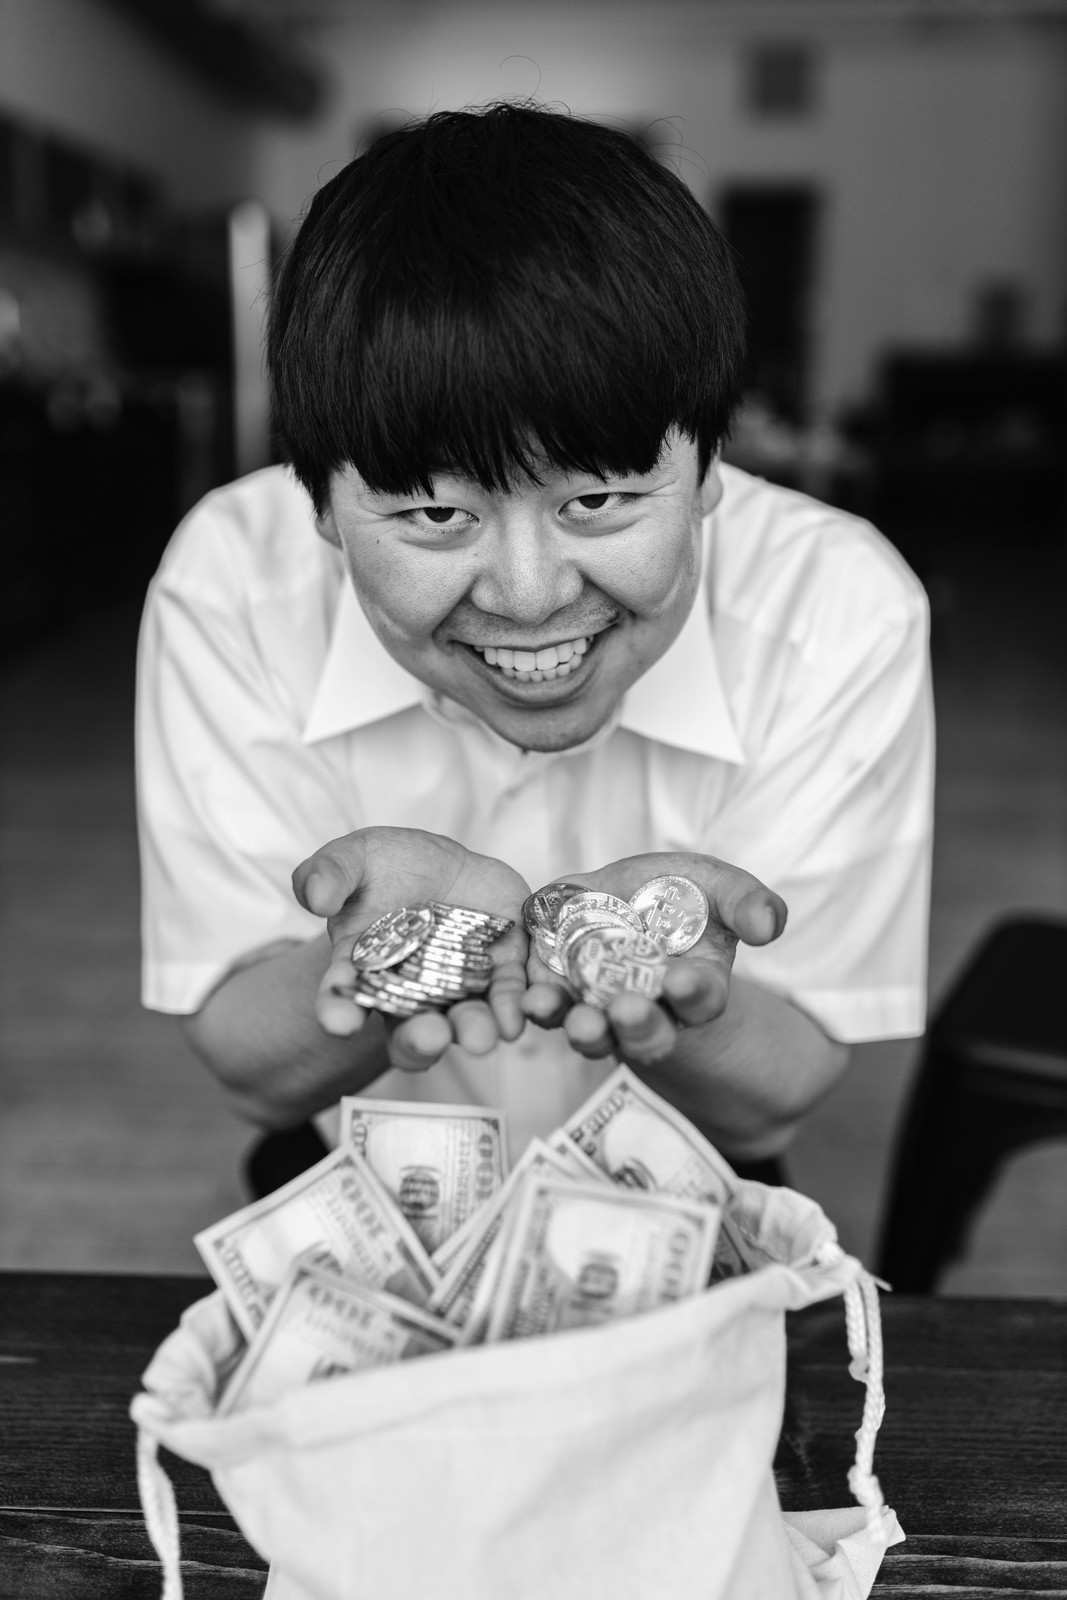
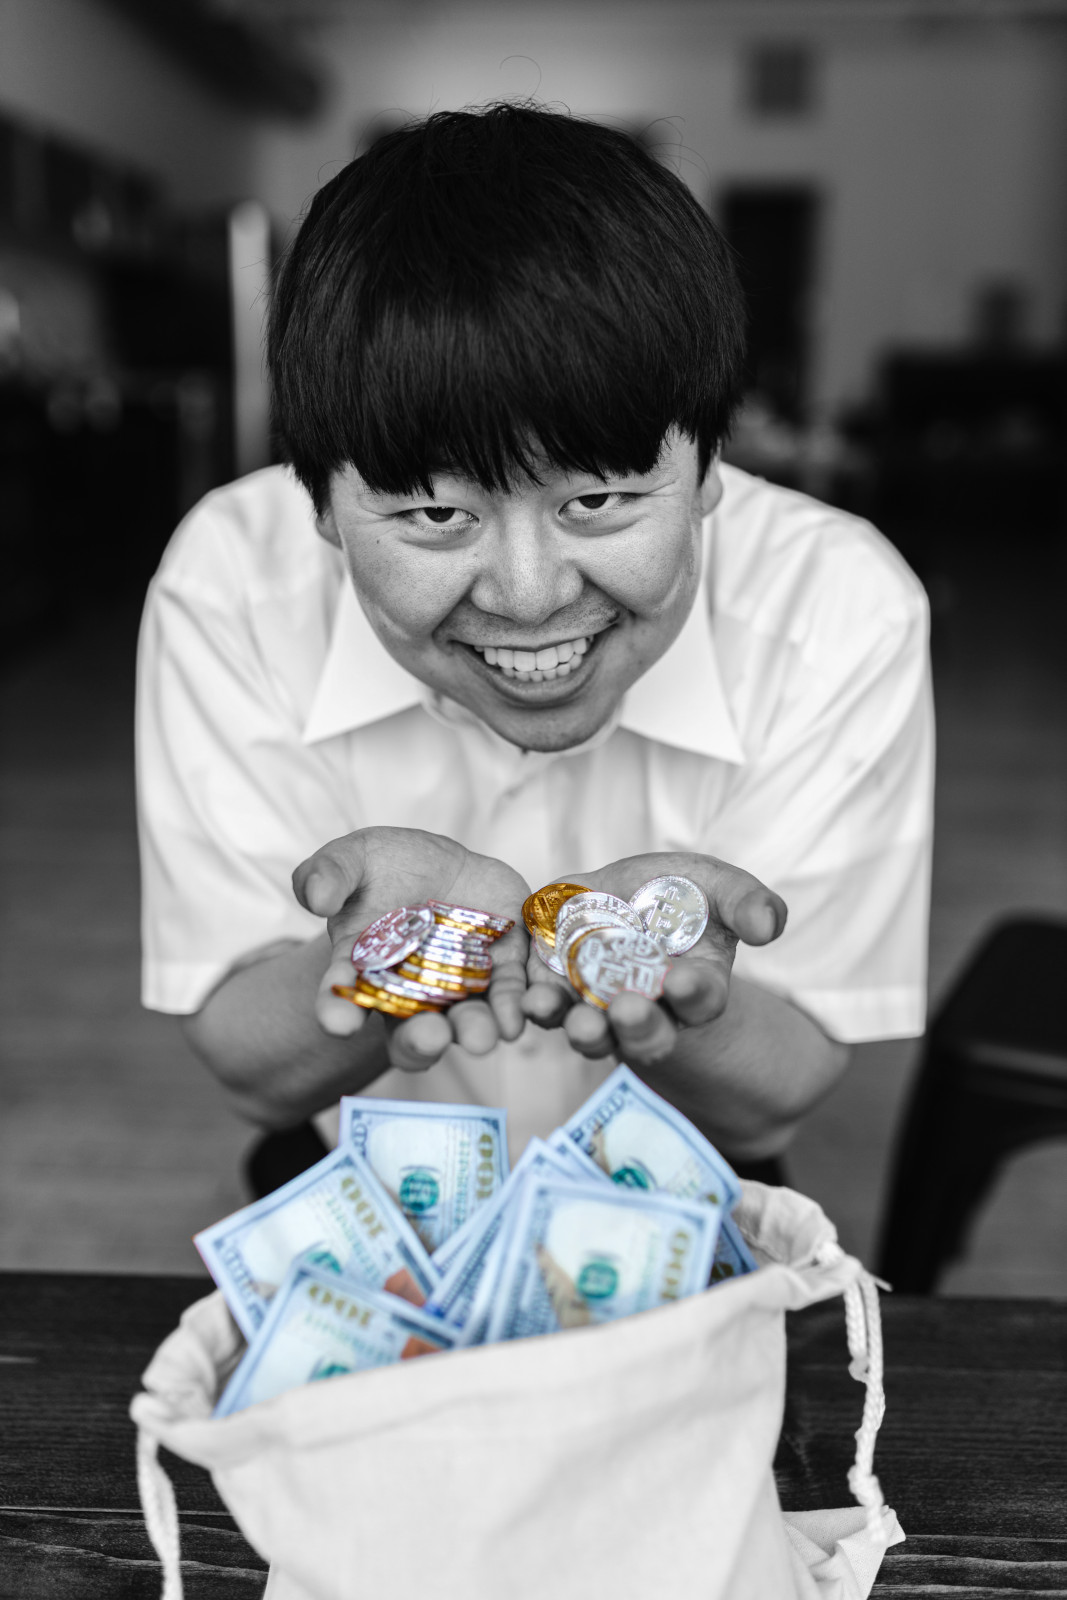
Color a las fotos y texto del futuro
Imaginar el futuro directamente escrito en la página. Se le puso color a unas fotos

Changed region(s): [[0.1856, 0.6562, 0.7113, 0.9062], [0.3093, 0.5312, 0.5567, 0.6562], [0.5258, 0.5938, 0.5567, 0.625]]

diff --git a/index.html b/index.html
@@ -84,8 +84,9 @@
               <span class="u-text-white">
                 <br>
               </span>
-              <font color="#ffffff">Tu futuro tú depende de las decisiones e inversiones que tome tu presente tú. Nuestro presente es ayudarte a que estas inversiones sean las mejores a futuro, con&nbsp;</font>
-              <font color="#ffffff">productos muy superiores en rendimiento a las alternativas presentadas por los sistemas financieros tradicionales, y muy superiores en facilidad a la inversion directa en criptomonedas. Lo mejor de ambos mundos.</font>
+              <font color="#ffffff">Imagina que eres la persona de la foto en el futuro; una persona tranquila mental, física y económicamente. Tu futuro <strong>tú</strong> </font>
+              <font color="#ffffff">depende de las decisiones e inversiones que tome tu presente <strong>tú</strong>. Nuestro presente es ayudarte a que estas inversiones sean las mejores a futuro, con&nbsp;</font>
+              <font color="#ffffff">productos muy superiores en rendimiento a las alternativas presentadas por los sistemas financieros tradicionales, y muy superiores en facilidad a la inversión directa en criptomonedas. Lo mejor de ambos mundos.</font>
             </p>
           </div>
         </div>
